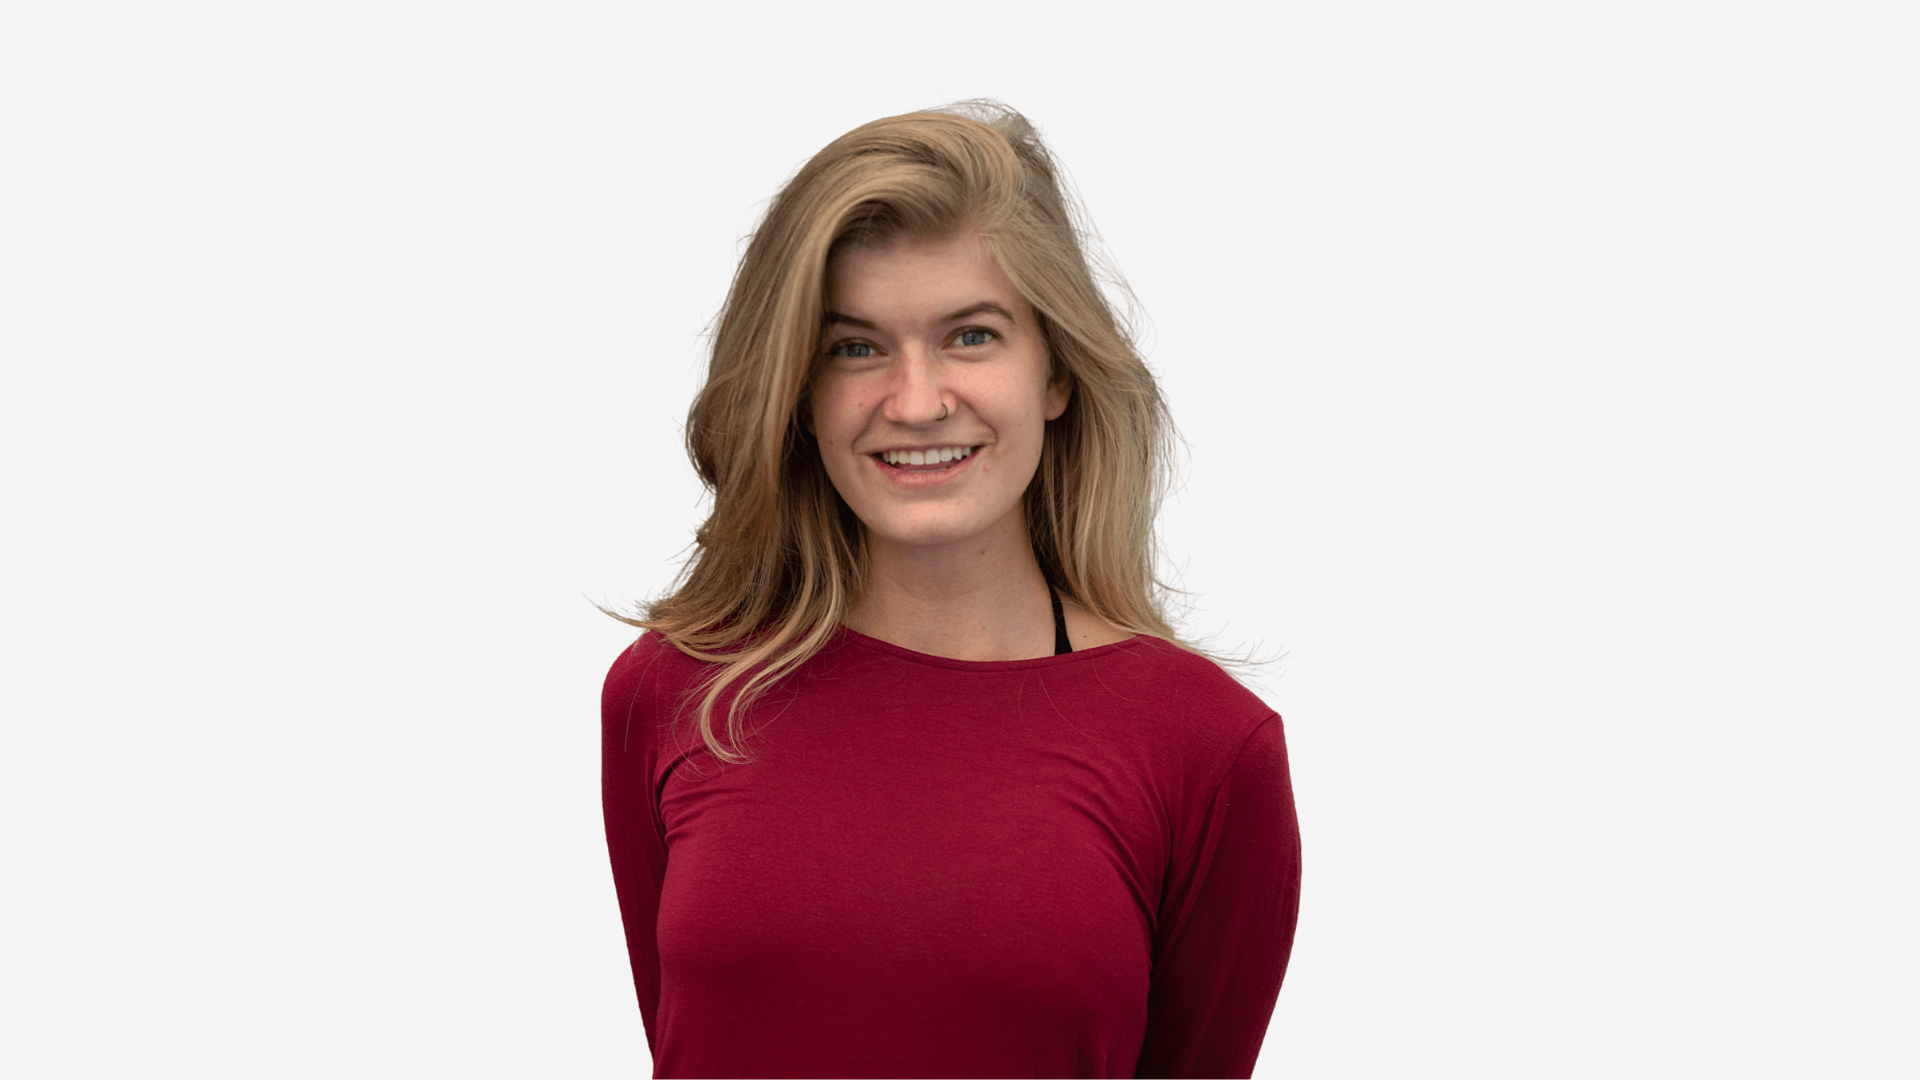
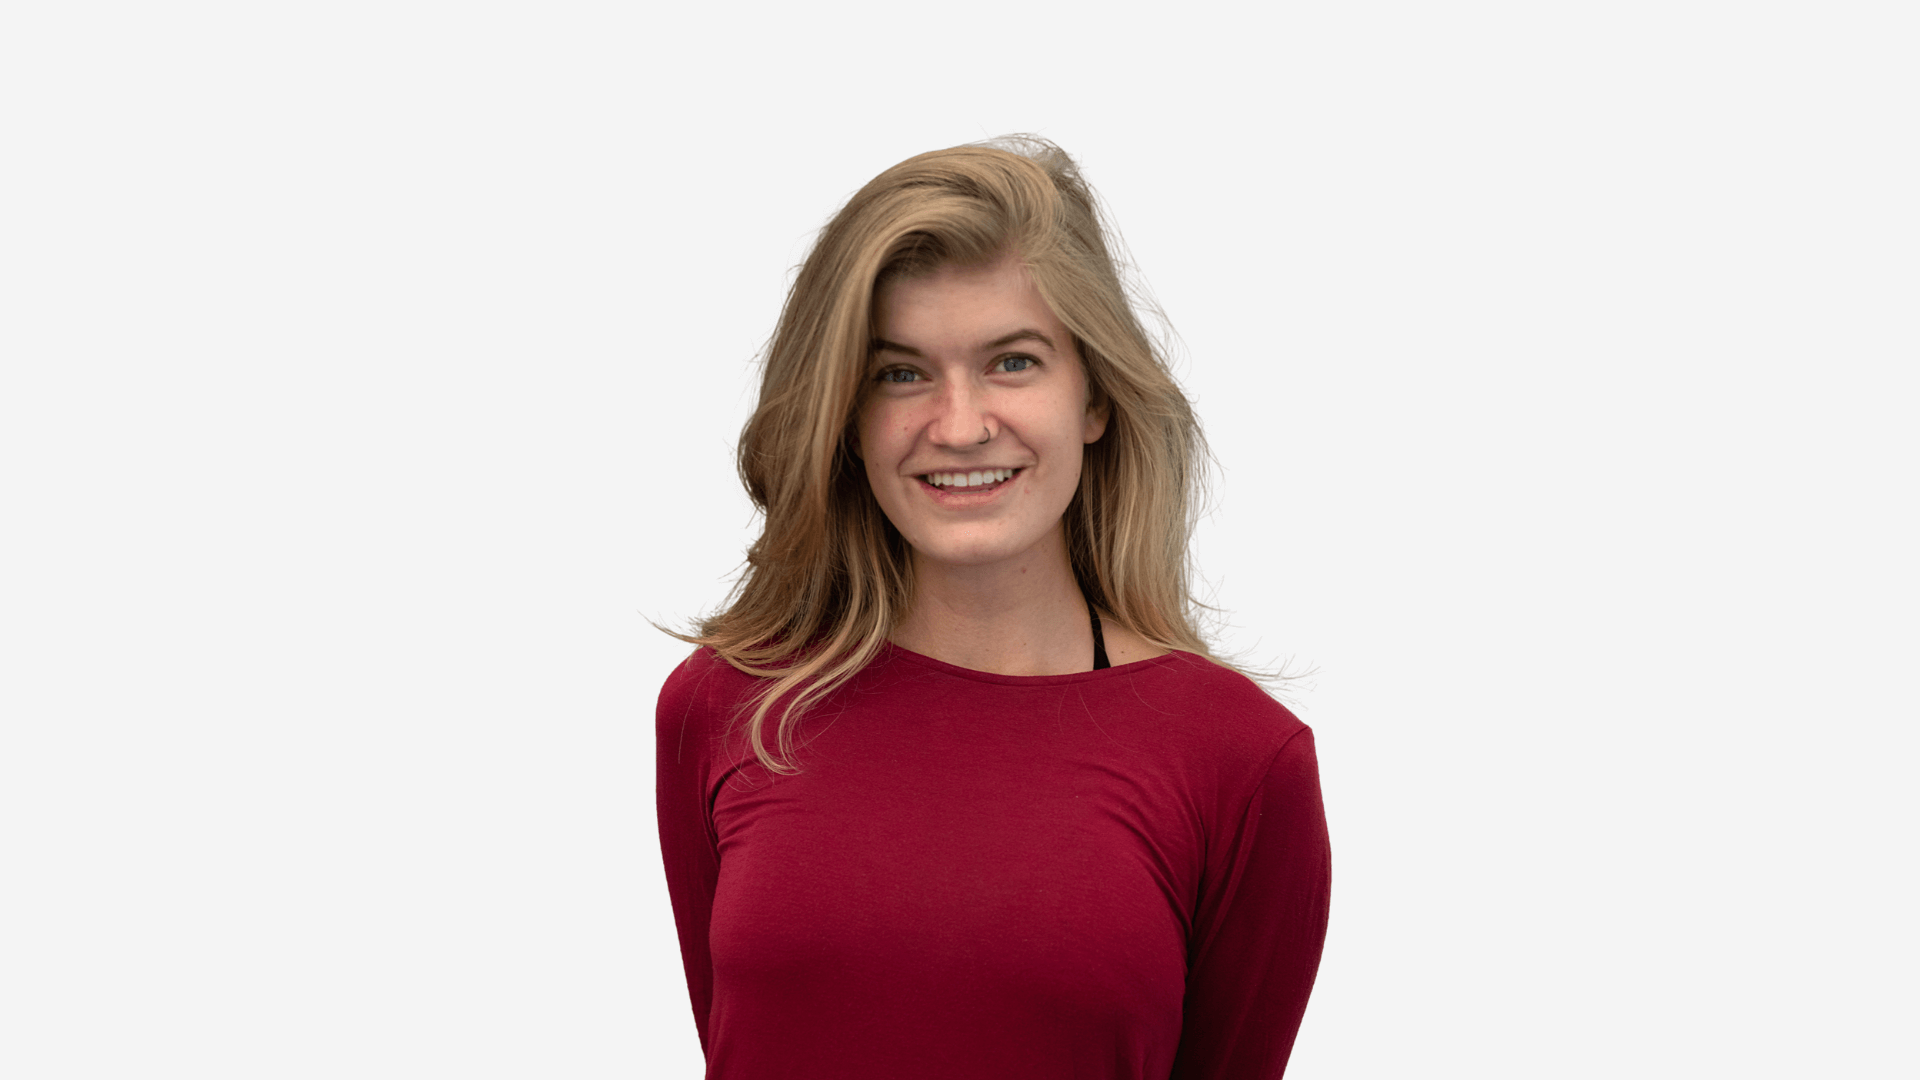
changed margins

Changed region(s): [[0.3125, 0.0917, 0.7188, 1.0]]

diff --git a/assets/css/style.css b/assets/css/style.css
@@ -420,6 +420,7 @@ section {
 .cool-things img {
   max-width: 700px;
   margin: auto;
+  padding: 0px;
 }
 .row {
   text-align: center;
